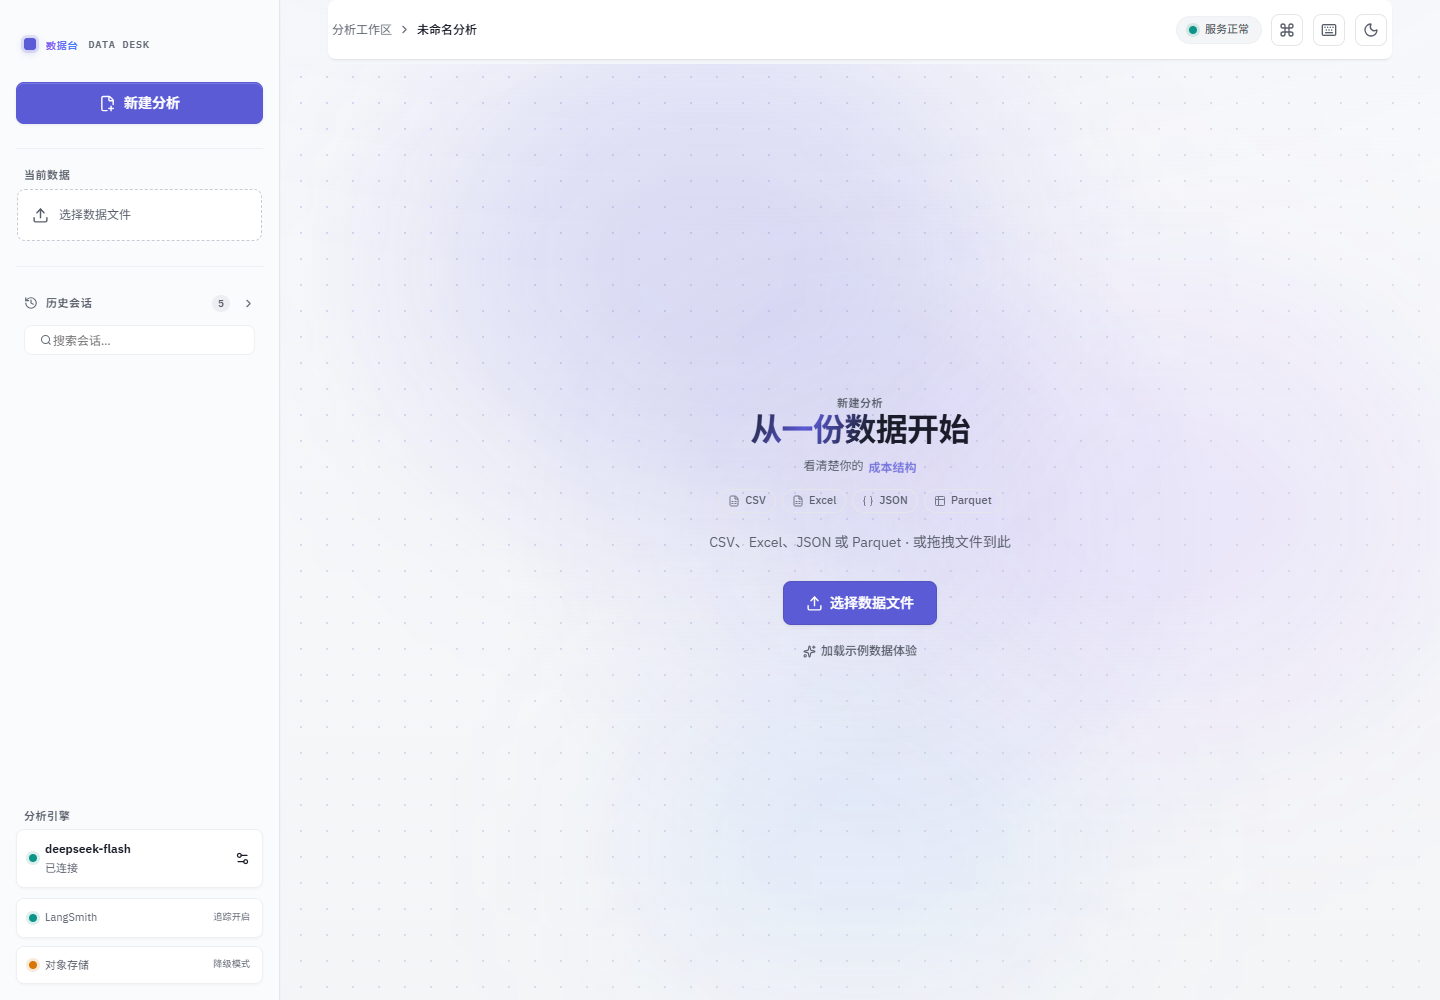
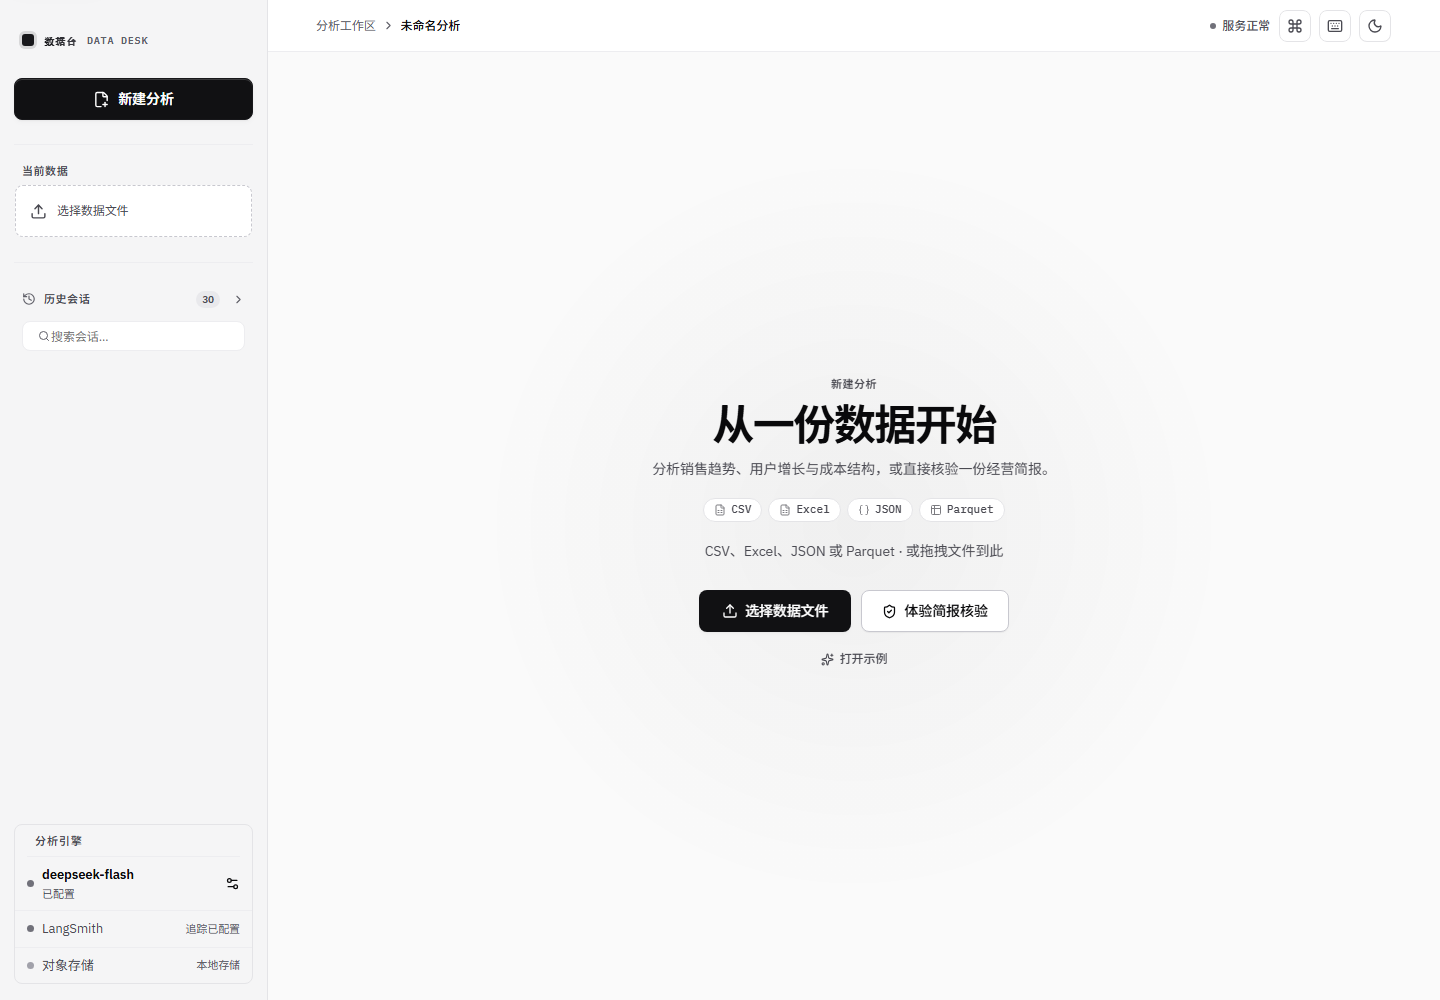
docs: README 上手与清理说明，重拍启动页截图
- 顶部补「最快上手」；clean 用法与 --all 护栏；访问令牌说明去掉本机私货
- 重拍启动页截图（包含「体验简报核验」与「打开示例」入口）

diff --git a/README.md b/README.md
@@ -15,6 +15,14 @@
 
 后端采用 LangChain + LangGraph 的 Plan-and-Execute + ReAct 混合架构，前端为独立 React 应用，本地通过 HTTP/SSE 通信。可一键本地运行，也可部署到 LangSmith / Render / Docker。
 
+## 最快上手
+
+```powershell
+.\run.bat     # Windows 一键启动：首次自动建虚拟环境、装依赖，之后自动开浏览器
+```
+
+不想要界面：`data-agent analyze examples/sample_sales.csv --task "分析各区域销售趋势"`（需先在 `.env` 填 `DEEPSEEK_API_KEY`）。完整步骤、访问令牌与端口规则见 [快速开始](#快速开始)。
+
 <p align="center">
   <img src="docs/screenshots/overview-light.png" alt="数据分析工作台主界面（浅色主题）" width="88%" />
   <br />
@@ -129,7 +137,7 @@ flowchart LR
 - 后端 API：默认 http://127.0.0.1:8000；8000 被占用时自动在 8000–8009 间选可用端口
 - API 文档：`<实际后端地址>/docs`
 
-**现场启动第 0 步（访问令牌）**：如果本机 `.env` 里设置了 `APP_ACCESS_TOKEN`（`run.ps1` 会把它注入后端进程；本机当前为 64 位随机串），新打开的浏览器会先停在「进入数据工作台」令牌页。演示前在该浏览器输入一次令牌（值就是 `.env` 里的 `APP_ACCESS_TOKEN`），它会保存在该浏览器的 localStorage；或临时清空 `.env` 里的 `APP_ACCESS_TOKEN` 并重启 `run.bat`（只监听 127.0.0.1 时可不设）。90 秒脚本假设浏览器已通过令牌页并停在首页。
+**访问令牌（可选）**：如果在 `.env` 里设置了 `APP_ACCESS_TOKEN`，新打开的浏览器会先停在「进入数据工作台」令牌页。输入一次令牌（值就是 `.env` 里的 `APP_ACCESS_TOKEN`）后会保存在该浏览器的 localStorage；只监听 127.0.0.1 时可以留空不设。
 
 ### 手动启动
 
@@ -154,7 +162,23 @@ export DEEPSEEK_API_KEY=<your-key>        # Windows PowerShell: $env:DEEPSEEK_AP
 data-agent analyze examples/sample_sales.csv --task "分析各区域销售趋势"
 ```
 
-输出为 Markdown 格式分析报告，产物路径一并打印。
+输出为 Markdown 格式分析报告，产物路径一并打印。报告走 stdout、进度与错误走 stderr，可以直接 `data-agent analyze x.csv > report.md`。
+
+命令行失败时不会打印 traceback：用法/配置错误退出码 2，运行期错误（网络、上游模型）1，`Ctrl+C` 取消 130。加 `--debug` 可看完整堆栈。
+
+### 清理运行目录
+
+CLI / MCP 每次运行都会在 `runs/` 下新建 `cli_*` / `mcp_*` 目录，长期使用会堆积：
+
+```bash
+data-agent clean --dry-run                 # 预览：默认删除超过 7 天未修改的，保留最新 20 个
+data-agent clean --days 30 --keep 10       # 改阈值（删除前会确认）
+data-agent clean --include-web             # 连同 Web 会话 api_* 一起清理（建议先停后端）
+```
+
+`--days 0` 会清空全部候选目录（保留数由 `--keep` 决定），必须显式再加 `--all` 才执行；路径写错或指向文件会直接报错而不是静默成功。
+
+希望每次 `analyze` 自动清理时，在 `.env` 设置 `DATA_AGENT_CLI_RETENTION_DAYS=7`（始终保留最新 10 个）。
 
 ### MCP 数据面服务（供其他 Agent 调用）
 
